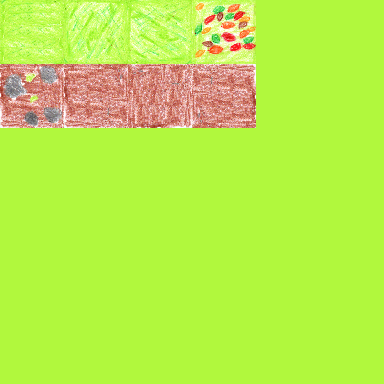
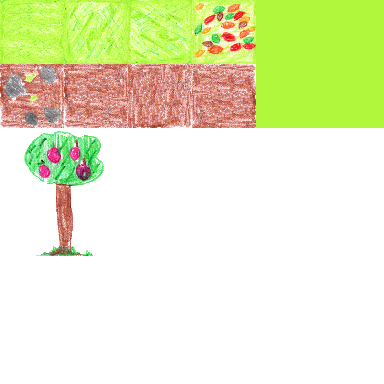
feat: Added trees

diff --git a/src/entities/world/SPSTerrain.js b/src/entities/world/SPSTerrain.js
@@ -1,4 +1,4 @@
-import { HemisphericLight } from 'babylonjs'
+import { HemisphericLight, Vector3 } from 'babylonjs'
 import noise from '../../utils/Noise'
 import { normalize } from '../../utils/helper'
 
@@ -6,22 +6,52 @@ export default class SPSterrain {
   constructor() {}
 
   create(scene, tileSize, rows, cols, dayStateMachine, sheetHeight = 6, sheetWidth = 6) {
+    noise.seed(Math.random() * 15000)
+
     const groundMat = new BABYLON.StandardMaterial('groundMaterial', scene)
     groundMat.specularColor = new BABYLON.Color3(0, 0, 0)
-    groundMat.diffuseColor = new BABYLON.Color3(0.8, 0.8, 0.8)
-    groundMat.diffuseTexture = new BABYLON.Texture('./assets/images/red_hood_tile.png', scene)
+    groundMat.diffuseColor = new BABYLON.Color3(1, 1, 1)
+
+    const groundTexture = new BABYLON.Texture(
+      './assets/images/red_hood_tile.png',
+      scene,
+      false,
+      true,
+      BABYLON.Texture.NEAREST_SAMPLINGMODE
+    )
+    groundTexture.hasAlpha = true
+    groundMat.diffuseTexture = groundTexture
+
     const light = new HemisphericLight('light', new BABYLON.Vector3(0, 1, 0), this.scene)
     const nightLight = new HemisphericLight('light', new BABYLON.Vector3(0, 1, 0), this.scene)
+
     const plane = BABYLON.MeshBuilder.CreateGround('plane', { width: tileSize, height: tileSize })
+    const forest = BABYLON.Mesh.CreatePlane('forest', tileSize * 2, scene)
+    forest.position.y = -30
+
     const SPS = new BABYLON.SolidParticleSystem('SPS', scene, { isPickable: true })
+    const SPSForest = new BABYLON.SolidParticleSystem('SPSForest', scene, { isPickable: true })
+    //SPSForest.billboard = true
 
     SPS.addShape(plane, rows * cols)
+    SPSForest.addShape(forest, 100)
+
+    const bodys = []
 
     const mesh = SPS.buildMesh()
+    const meshForest = SPSForest.buildMesh()
+
     nightLight.excludedMeshes.push(mesh)
+    nightLight.excludedMeshes.push(meshForest)
     nightLight.intensity = 0
     mesh.material = groundMat
+    meshForest.material = groundMat
+
     plane.dispose()
+    forest.dispose()
+
+    const player = scene.getNodeByName('guy').parent
+
     SPS.initParticles = () => {
       for (let col = 0; col < cols; col++) {
         for (let row = 0; row < rows; row++) {
@@ -31,26 +61,106 @@ export default class SPSterrain {
           particle.position.z = (col - cols / 2) * tileSize + tileSize * 1.5
 
           const u = Math.floor(normalize(noise.simplex2(col / 16, row / 16)) * 2)
-          const v = Math.floor(normalize(noise.simplex2(col / 64, row / 64)) * 2) + 4
-          particle.uvs.x = u / sheetWidth
+          const v = 5 //Math.floor(normalize(noise.simplex2(col / 16, row / 16)) * 2) + 4
+
+          if (v == 5) {
+            setForest(row, col, particle.position)
+          }
+          particle.uvs.x = u / sheetWidth + 0.001
           particle.uvs.z = (u + 1) / sheetWidth - 0.001
-          particle.uvs.y = v / sheetHeight
+          particle.uvs.y = v / sheetHeight + 0.001
           particle.uvs.w = (v + 1) / sheetHeight - 0.001
-          particle.position.y = -4
+          particle.position.y = -8
         }
       }
       SPS.isAlwaysVisible = true
       return SPS
     }
 
+    let ixForest = 0
+    const setForest = (row, col, position) => {
+      const isBeetweenXLimit = Math.abs(player.position.x - position.x) < 50 && Math.abs(position.x) > 10
+      const isBeetweenZLimit = Math.abs(player.position.z - position.z) < 50 && Math.abs(position.z) > 10
+      const originalNoise = noise.simplex2(col / 8, row / 8)
+      const noiseForest = normalize(originalNoise)
+
+      if (isBeetweenXLimit && isBeetweenZLimit && noiseForest < 0.4) {
+        const forestParticle = SPSForest.particles[ixForest]
+        const body = bodys[ixForest]
+
+        forestParticle.position.x = position.x + originalNoise * 5
+        forestParticle.position.z = position.z + originalNoise * 5
+        forestParticle.position.y = 0
+        forestParticle.isVisible = true
+
+        forestParticle.rotation.y = -Math.PI / 4
+
+        forestParticle.uvs.x = 0 / 3 + 0.001
+        forestParticle.uvs.z = 1 / 3 - 0.001
+        forestParticle.uvs.y = 1 / 3 + 0.001
+        forestParticle.uvs.w = 2 / 3 - 0.001
+
+        body.position.x = forestParticle.position.x
+        body.position.z = forestParticle.position.z
+        body.position.y = -4
+
+        ixForest++
+      }
+    }
+
+    SPSForest.initParticles = () => {
+      SPSForest.position = player.position
+      for (let ix = 0; ix < 100; ix++) {
+        const forest = SPSForest.particles[ix]
+        forest.position.y = -30
+        forest.isVisible = false
+
+        const body = BABYLON.Mesh.CreateBox('', 2, scene)
+        body.position.y = 15
+        body.applyGravity = false
+        body.visibility = 0
+        body.physicsImpostor = new BABYLON.PhysicsImpostor(
+          body,
+          BABYLON.PhysicsImpostor.BoxImpostor,
+          { mass: 0, friction: 0.5, restitution: 0 },
+          scene
+        )
+        bodys.push(body)
+      }
+      SPSForest.isAlwaysVisible = true
+      SPSForest.depthSortParticles = false
+    }
+
+    SPSForest.initParticles()
     SPS.initParticles()
+    SPSForest.setParticles()
     SPS.setParticles()
+
+    scene.registerBeforeRender(() => {
+      const isBeetweenXLimit = Math.abs(player.position.x - SPSForest.position.x) < 20
+      const isBeetweenZLimit = Math.abs(player.position.z - SPSForest.position.z) < 20
+
+      if (isBeetweenXLimit && isBeetweenZLimit) {
+        return false
+      }
+
+      ixForest = 0
+
+      for (let ix = 0; ix < 100; ix++) {
+        const forest = SPSForest.particles[ix]
+        forest.isVisible = false
+      }
+
+      SPS.initParticles()
+      SPS.setParticles()
+    })
+
     const groundContainer = BABYLON.MeshBuilder.CreateBox(
       'Ground',
       { width: tileSize * rows, height: 1, depth: tileSize * cols },
       scene
     )
-    groundContainer.position.y = -1
+    groundContainer.position.y = -8
     groundContainer.physicsImpostor = new BABYLON.PhysicsImpostor(
       groundContainer,
       BABYLON.PhysicsImpostor.BoxImpostor,
@@ -88,6 +198,7 @@ export default class SPSterrain {
     scene.registerBeforeRender(() => {
       getDark()
       getBright()
+      SPSForest.setParticles()
     })
 
     return {

diff --git a/src/scenes/GameSceneLoader.js b/src/scenes/GameSceneLoader.js
@@ -1,7 +1,6 @@
-import { HemisphericLight, Vector3, CannonJSPlugin } from 'babylonjs'
+import { Vector3, CannonJSPlugin } from 'babylonjs'
 import Player from '../entities/player'
 import * as cannon from 'cannon'
-//import DynamicTerrain from '../entities/world/DynamicTerrain'
 import SPSterrain from '../entities/world/SPSTerrain'
 import StateMachine from '../entities/stateMachine'
 import {machine, actions} from '../entities/stateMachine/machines/daySystem'
@@ -38,7 +37,7 @@ export default class GameSceneLoader {
   setAmbient = (scene, { withfog = false }) => {
     const light = new BABYLON.SpotLight(
       'flashLight',
-      new BABYLON.Vector3(-2, 10, 2),
+      new BABYLON.Vector3(0, 10, 0),
       new BABYLON.Vector3(0, -1, 0),
       BABYLON.Tools.ToRadians(90),
       16,
@@ -53,7 +52,7 @@ export default class GameSceneLoader {
     scene.clearColor = new BABYLON.Color3(1, 1, 1)
     if (withfog) {
       // Fog
-      scene.fogMode = BABYLON.Scene.FOGMODE_EXP
+      scene.fogMode = BABYLON.Scene.FOGMODE_LINEAR
       //BABYLON.Scene.FOGMODE_NONE;
       //BABYLON.Scene.FOGMODE_EXP;
       //BABYLON.Scene.FOGMODE_EXP2;

diff --git a/src/entities/camera/IsoCameraController.js b/src/entities/camera/IsoCameraController.js
@@ -12,14 +12,14 @@ export default class IsoCameraController {
 
   setCamera = (scene, canvas) => {
     const cameraZoom = 20
-    const camera = new TargetCamera('PlayerCamera', new BABYLON.Vector3(cameraZoom, cameraZoom, -cameraZoom), scene)
+    const camera = new TargetCamera('PlayerCamera', new BABYLON.Vector3(cameraZoom * 2, cameraZoom * 2, -cameraZoom * 2), scene)
     const engine = scene.getEngine()
     camera.parent = this.target
     camera.mode = BABYLON.Camera.ORTHOGRAPHIC_CAMERA
-    camera.orthoTop = cameraZoom - 4
+    camera.orthoTop = cameraZoom 
     camera.orthoBottom = -cameraZoom
-    camera.orthoLeft = -cameraZoom * engine.getScreenAspectRatio()
-    camera.orthoRight = cameraZoom * engine.getScreenAspectRatio()
+    camera.orthoLeft = -cameraZoom * engine.getScreenAspectRatio() 
+    camera.orthoRight = cameraZoom * engine.getScreenAspectRatio() 
     camera.setTarget(new BABYLON.Vector3(0, 2, 0))
     camera.attachControl(canvas, true)
 

diff --git a/src/entities/animator/index.js b/src/entities/animator/index.js
@@ -33,7 +33,9 @@ export default class Animator {
     material.transparencyMode = BABYLON.Material.MATERIAL_ALPHATESTANDBLEND
     material.useAlphaFromDiffuseTexture = true
     material.diffuseTexture = texture
-    material.specularColor = new BABYLON.Color3(0, 0, 0)
+    //material.specularColor = new BABYLON.Color3(0, 0, 0)
+    //material.disableLighting = true;
+    material.emissiveColor = BABYLON.Color3.White();
     material.diffuseColor = new BABYLON.Color3(1, 1, 1)
     return material
   }

diff --git a/src/entities/player/index.js b/src/entities/player/index.js
@@ -5,7 +5,7 @@ import Animator from '../animator'
 import playerSpriteMap from '../../assets/maps/player.json'
 
 export default class Player {
-  constructor(scene, canvas, children = [], settings = { speed: 0.05}) {
+  constructor(scene, canvas, children = [], settings = { speed: 0.1}) {
     const { speed } = settings
     this.scene = scene
     this.canvas = canvas

diff --git a/src/entities/stateMachine/machines/daySystem.js b/src/entities/stateMachine/machines/daySystem.js
@@ -3,10 +3,10 @@ export const machine = {
   initial: 'startCycle',
   context: {
     day: {
-      waitTo: { time: 2 }
+      waitTo: { time: 0.5 }
     },
     night: {
-      waitTo: { time: 1 }
+      waitTo: { time: 2 }
     }
   },
   states: {

diff --git a/webpack.config.js b/webpack.config.js
@@ -15,7 +15,7 @@ module.exports = {
   },
   devServer: {
     compress: true,
-    port: 9000
+    port: 9000,
   },
   resolve: {
     alias: {
